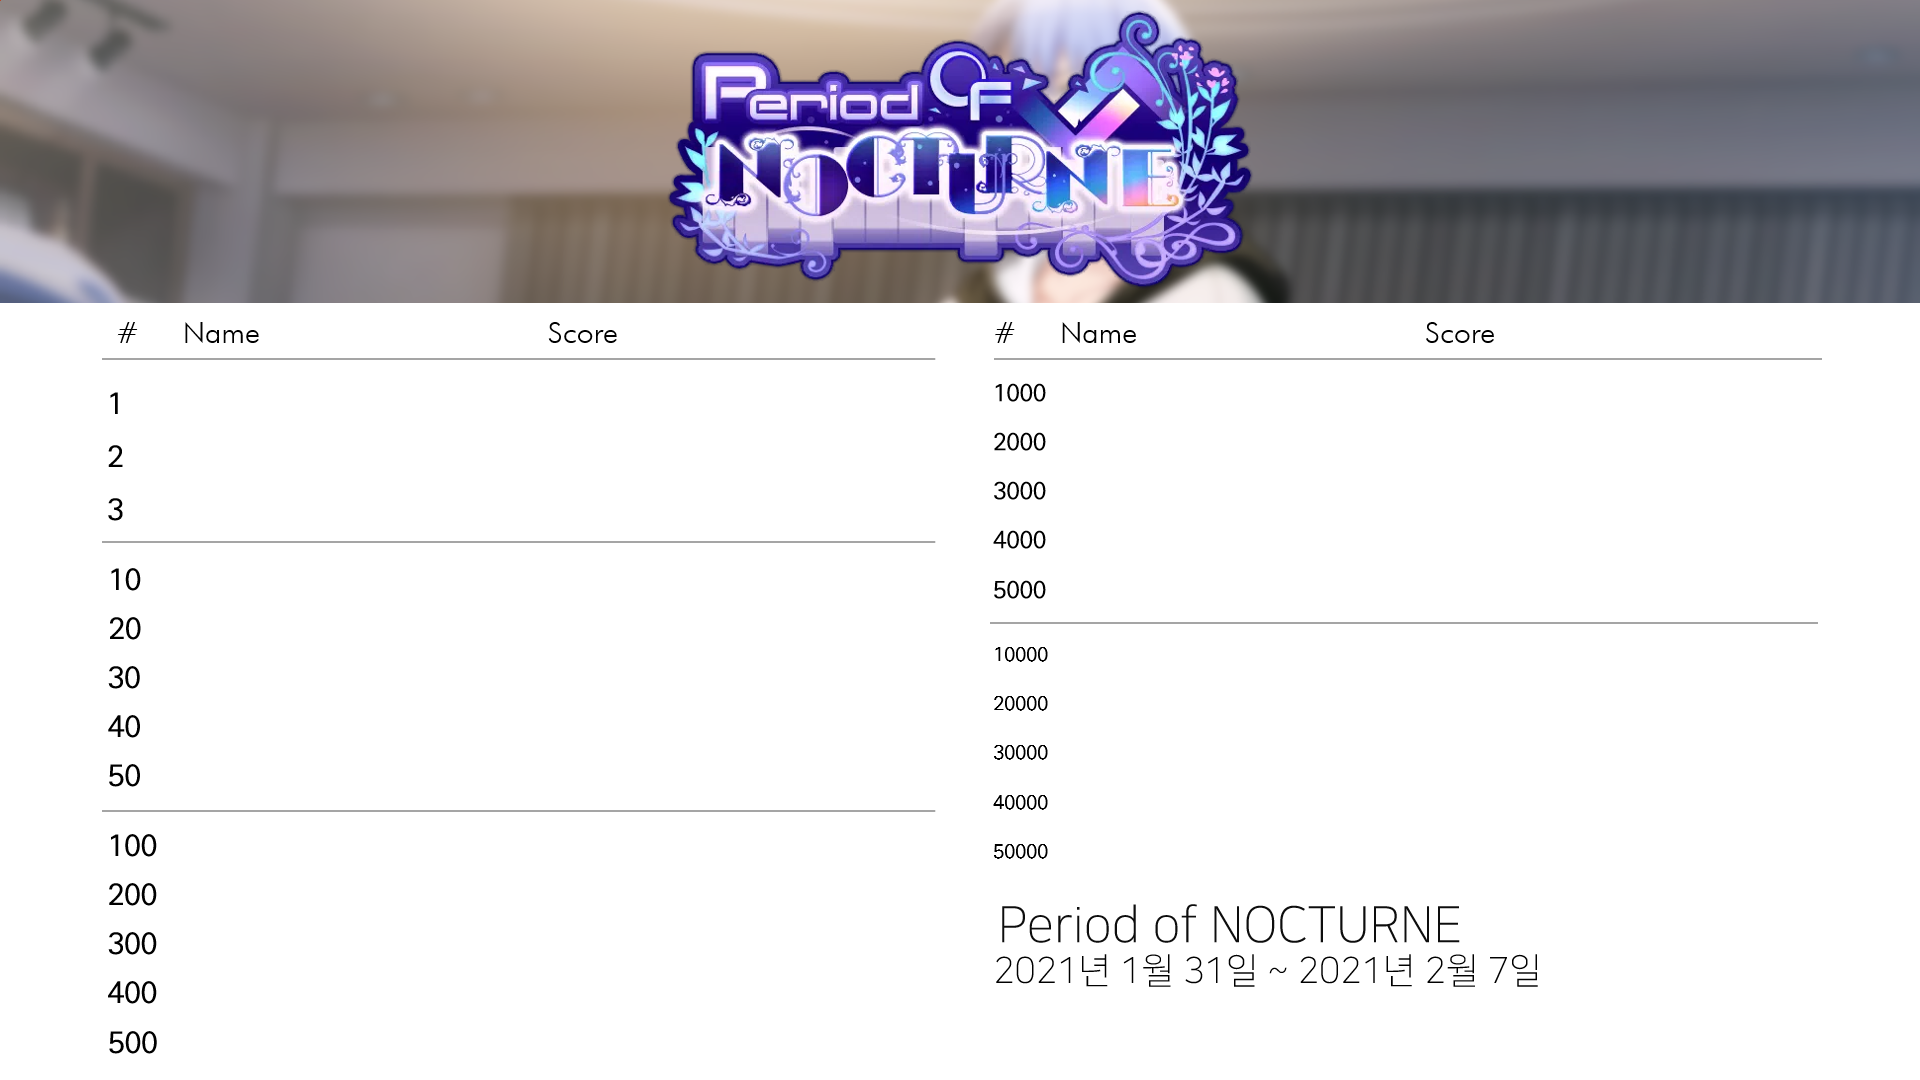
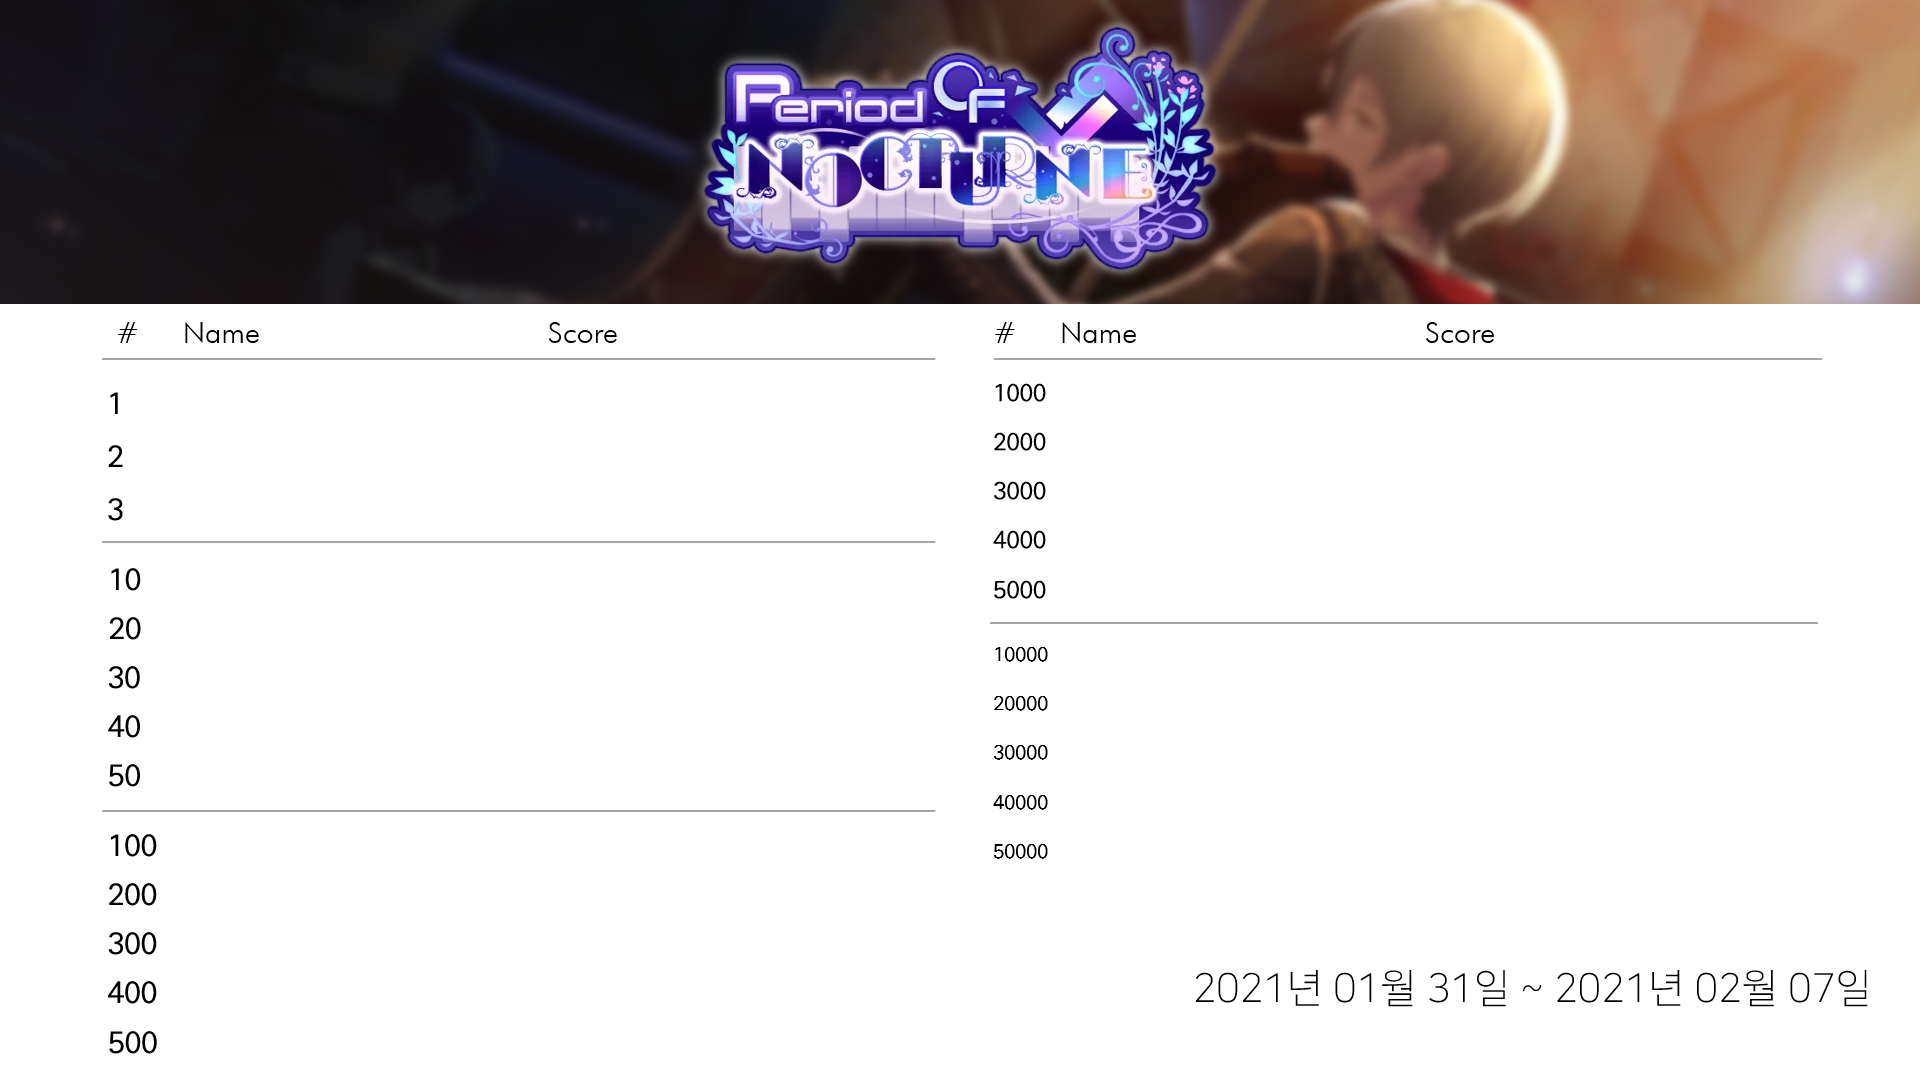
Minor design changes

Changed region(s): [[0.0, 0.0, 1.0, 0.3056], [0.5312, 0.825, 0.875, 0.9472], [0.9062, 0.8861, 0.9688, 0.9472]]

diff --git a/sekaibot.py b/sekaibot.py
@@ -208,7 +208,7 @@ print()
 
 #DRAW TODAY
 texttoday = datetime.today().strftime('%Y년 %m월 %d일 %H시 %M분 기준')
-draw.text((993,1007), texttoday, fill="black", font=font, align='center')
+draw.text((1437,1007), texttoday, fill="black", font=font, align='center')
 
 #완성된 파일 저장
 template_image.save(os.path.join(sys.path[0], 'border.png'))
@@ -216,16 +216,12 @@ template_image.save(os.path.join(sys.path[0], 'border.png'))
 
 #트윗
 print('트윗으로 작성합니다, 조금만 기다려 주십시오...')
-
 media_ids = []
 borderimg = api.media_upload(os.path.join(sys.path[0], 'border.png'))
 media_ids.append(borderimg.media_id)
 print(('미디어 업로드 OK : {0}').format(media_ids))
 api.update_status(status=message, media_ids=media_ids)
-
-
 print('Tweet OK')
-
 
 #기존 파일은 old로 저장
 try:
